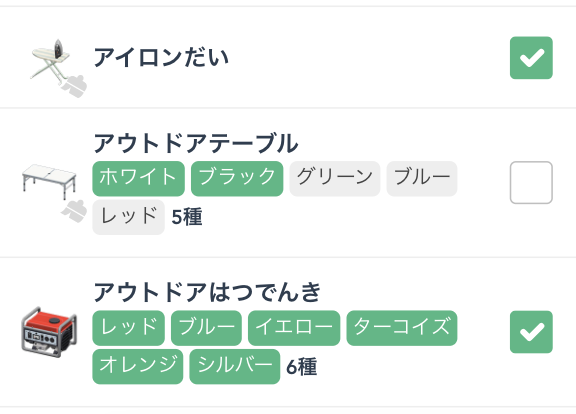
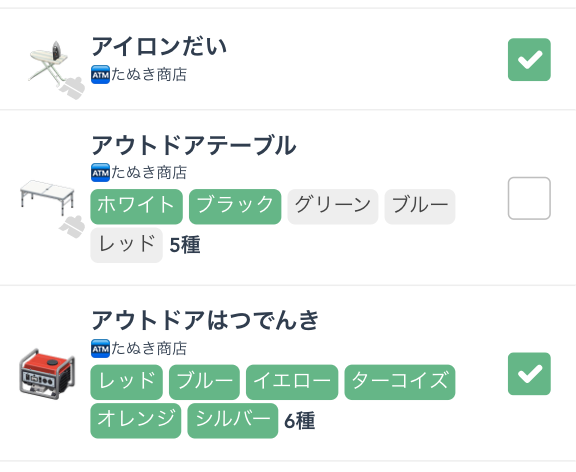
Update About

diff --git a/src/views/About.vue b/src/views/About.vue
@@ -140,7 +140,7 @@
     <h3>リストビュー</h3>
     <img class="img" src="../assets/list.svg" style="margin: -1rem 0 1rem" />
     <p>
-      バリエーション毎またはバリエーション全体を一括でチェックできる表示モードです。カタログを見ながらチェックするなど、一気にチェックする場合はリスト表示の方が効率的にチェックいただけます。
+      入手方法などの情報が表示され、バリエーション毎またはバリエーション全体を一括でチェックできる表示モードです。カタログを見ながらチェックするなど、一気にチェックする場合はリスト表示の方が効率的にチェックいただけます。
     </p>
     <img
       class="img"
